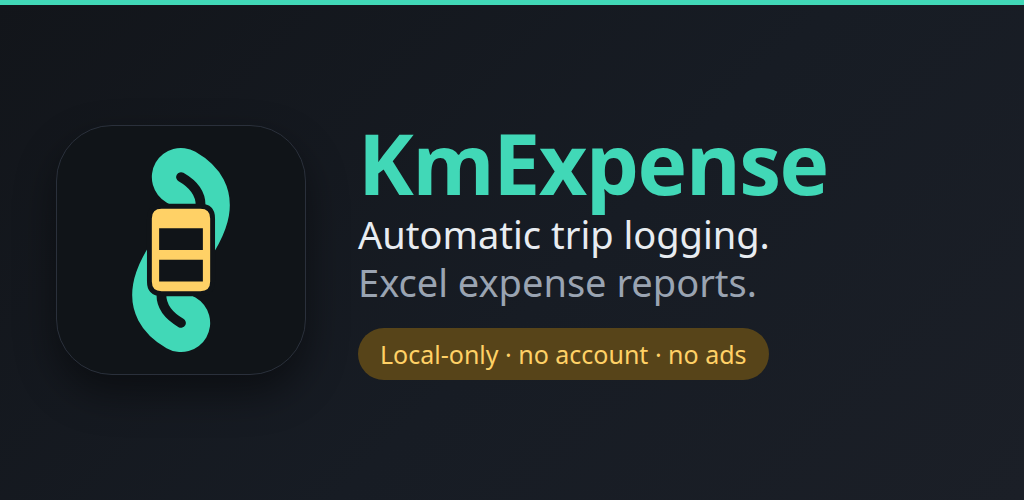
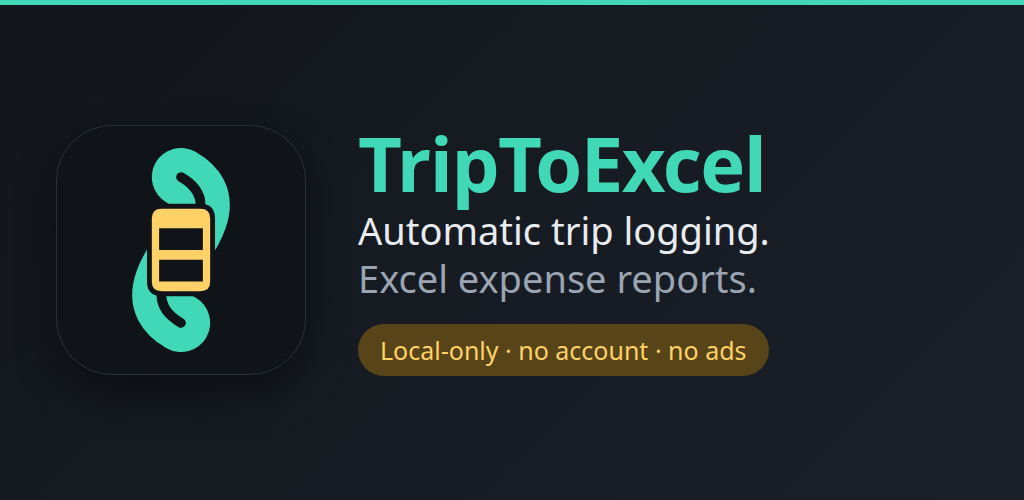
chore: rename KmExpense to TripToExcel across app, docs, store

Changed region(s): [[0.3438, 0.27, 0.8125, 0.6], [0.3438, 0.69, 0.75, 0.78], [0.3438, 0.63, 0.75, 0.69]]

diff --git a/store/feature-graphic.html b/store/feature-graphic.html
@@ -2,7 +2,7 @@
 <html lang="en">
 <head>
 <meta charset="utf-8">
-<title>KmExpense — Play feature graphic 1024×500</title>
+<title>TripToExcel — Play feature graphic 1024×500</title>
 <style>
   /* Google Play feature graphic: 1024x500, no transparency, no rounded outer
      corners. Palette is the app's (mint #41D8B7, amber #FFD166, dark neutrals).
@@ -35,7 +35,7 @@
 
   .text { display: flex; flex-direction: column; gap: 6px; }
   .name {
-    font-size: 84px; font-weight: 700; color: #41D8B7;
+    font-size: 76px; font-weight: 700; color: #41D8B7;
     letter-spacing: -1.5px; line-height: 1.02;
   }
   .tagline { font-size: 38px; line-height: 1.25; color: #E8ECF1; }
@@ -70,7 +70,7 @@
   </div>
 
   <div class="text">
-    <div class="name">KmExpense</div>
+    <div class="name">TripToExcel</div>
     <div class="tagline">Automatic trip logging.<br><span class="dim">Excel expense reports.</span></div>
     <div class="pill">Local-only · no account · no ads</div>
   </div>

diff --git a/store/icon.html b/store/icon.html
@@ -2,7 +2,7 @@
 <html lang="en">
 <head>
 <meta charset="utf-8">
-<title>KmExpense — Play store icon 512×512</title>
+<title>TripToExcel — Play store icon 512×512</title>
 <style>
   /* Wrapper that renders store/icon.svg at exactly 512x512.
      Why a wrapper at all: Chrome writes an RGB PNG when every pixel is opaque,

diff --git a/docs/assets/css/style.css b/docs/assets/css/style.css
@@ -1,4 +1,4 @@
-/* KmExpense documentation site.
+/* TripToExcel documentation site.
  *
  * Dark theme only, with the same palette as the Android app
  * (app/src/main/java/com/terman37/triplogger/ui/theme/Theme.kt):

diff --git a/docs/privacy-policy.md b/docs/privacy-policy.md
@@ -1,20 +1,21 @@
-# KmExpense — Privacy Policy
+# TripToExcel — Privacy Policy
 
 *Last updated: 2 October 2026*
 
-> **KmExpense is a local-only app.** It does not collect, transmit, or sell your
+> **TripToExcel is a local-only app.** It does not collect, transmit, or sell your
 > personal data. There is no account, no server, and no analytics. Your trips stay
 > on your phone unless you choose to share an export yourself.
 
 ## 1. Who this policy is for
 
-This policy covers the Android app **KmExpense**
-(package `com.terman37.triplogger`), developed by **Anthony Jourdan**. It explains
+This policy covers the Android app **TripToExcel**, listed on Google Play as
+*TripToExcel - Km Logger* (package `com.terman37.triplogger`), developed by
+**Anthony Jourdan**. It explains
 what the app uses on your device, where that data goes, and how you can remove it.
 
 ## 2. What the app uses on your device
 
-KmExpense accesses the following data *on your device only*:
+TripToExcel accesses the following data *on your device only*:
 
 - **Bluetooth connection status** of the car device you register in the app. This
   is used solely to know when a trip starts and when it ends. The app does not
@@ -28,7 +29,7 @@ KmExpense accesses the following data *on your device only*:
 
 ## 3. No collection, no transmission
 
-KmExpense does not send your data anywhere. It has no backend server, no user
+TripToExcel does not send your data anywhere. It has no backend server, no user
 account, no advertising SDK, and no analytics or crash-reporting service.
 
 The only way trip data leaves your phone is when **you** explicitly export a
@@ -58,9 +59,9 @@ server; deletion is entirely local and immediate.
 
 - **Android's built-in geocoder** is used to turn coordinates into an address.
   This is a system service; its handling of data is governed by your device's
-  platform and Google's terms, not by KmExpense.
+  platform and Google's terms, not by TripToExcel.
 - **Google Maps** opens only when you tap a map link. The app simply hands a URL
-  to the Maps app or browser; no trip data is sent by KmExpense.
+  to the Maps app or browser; no trip data is sent by TripToExcel.
 
 No other third party receives data from the app.
 
@@ -79,7 +80,7 @@ visible, and dismissing that notification stops monitoring.
 
 ## 8. Children
 
-KmExpense is not directed at children and does not knowingly collect any
+TripToExcel is not directed at children and does not knowingly collect any
 information from children.
 
 ## 9. Changes to this policy
@@ -95,6 +96,6 @@ Questions about this policy or about the app's data handling:
 
 ---
 
-KmExpense — privacy policy. This page is a static file: it sets no cookies and
+TripToExcel — privacy policy. This page is a static file: it sets no cookies and
 runs no scripts. Source code:
 [github.com/terman37/TripLogger](https://github.com/terman37/TripLogger).

diff --git a/docs/user-guide.md b/docs/user-guide.md
@@ -1,4 +1,4 @@
-# KmExpense — user guide
+# TripToExcel — user guide
 
 An Android app that **logs your car trips automatically** and lets you export
 them as a spreadsheet for your expense report.
@@ -24,7 +24,7 @@ Requirement: Android 14 or newer.
 1. **Pair your car in Android settings** (the app never does the pairing
    itself): Settings → Bluetooth → pair your car/head unit or your usual car
    adapter.
-2. Open **KmExpense**. On a fresh install, just tap the **Monitor trips**
+2. Open **TripToExcel**. On a fresh install, just tap the **Monitor trips**
    switch: there is no device yet, so the app takes you to the **Settings** tab
    with the *Available* list already open.
 3. Tap **Allow Bluetooth access** (the amber button), then tap **+** next to
@@ -97,7 +97,7 @@ address.
 
 ## Good to know
 
-- **The notification is monitoring.** If you swipe the "KmExpense"
+- **The notification is monitoring.** If you swipe the "TripToExcel"
   notification away, the app stops monitoring (that is intentional: it never
   tracks silently). Turn the switch on Home back on if that was a mistake.
 - **Closing the app is fine.** Monitoring continues in the background while the
@@ -115,7 +115,7 @@ address.
   again.
 - **Battery**: the app asks for GPS only while a trip is recording (one fix
   every 30 seconds), so it is light on battery. Some phone brands additionally
-  restrict background apps; if recording stops unexpectedly, allow KmExpense
+  restrict background apps; if recording stops unexpectedly, allow TripToExcel
   to run in the background / disable battery optimization for it.
 - **Permissions**: Bluetooth is used only to notice your car connecting;
   location is used for distance and addresses, and "Allow all the time" so

diff --git a/docs/BUILD.md b/docs/BUILD.md
@@ -1,4 +1,4 @@
-# Building KmExpense
+# Building TripToExcel
 
 How to produce an installable APK or the signed bundle for Google Play.
 
@@ -119,5 +119,5 @@ Increase `versionCode` for every release you upload; Play rejects a bundle whose
 | `No connected devices!` | `adb devices` empty → reconnect USB / `adb connect <IP:PORT>` |
 | `INSTALL_FAILED_UPDATE_INCOMPATIBLE` | Different signing key or downgrade: uninstall the app first (this deletes its database) |
 | `INSTALL_FAILED_VERSION_DOWNGRADE` | Increase `versionCode` or uninstall |
-| Foreground service stops when battery saver is strict | Exempt KmExpense from battery optimization in Android settings (monitoring is a foreground service; some OEMs still restrict) |
+| Foreground service stops when battery saver is strict | Exempt TripToExcel from battery optimization in Android settings (monitoring is a foreground service; some OEMs still restrict) |
 | Monitoring stops after driving | Check the notification is still there; if it was swiped away, monitoring is off by design (turn the Home switch back on) |

diff --git a/docs/UI.md b/docs/UI.md
@@ -1,4 +1,4 @@
-# KmExpense — UI specification
+# TripToExcel — UI specification
 
 Current description of how the app looks and behaves. Reflects the validated
 implementation (the validated implementation); keep in sync with the code.
@@ -94,7 +94,7 @@ expanded so the permission button is immediately visible.
 
 ## Background notification
 
-- Title "KmExpense"; content always leads with **"Monitoring active"**:
+- Title "TripToExcel"; content always leads with **"Monitoring active"**:
   - idle → "Monitoring active"
   - recording → "Monitoring active — Recording 12.4 km"
   - grace → "Monitoring active — Disconnected, finishing trip…"

diff --git a/store/README.md b/store/README.md
@@ -37,7 +37,7 @@ neither is drawn here.
 `feature-graphic.html` is the source: mint hairline, the icon on the left, the
 wordmark, a two-line tagline and an amber "Local-only · no account · no ads"
 pill. Text stays inside a 56px margin because Play crops this banner in some
-placements. The store title is `KmExpense: Auto Drive Log` (see the release
+placements. The store title is `TripToExcel - Km Logger` (see the release
 plan); the graphic uses the shorter wordmark, which is also the launcher label.
 
 ### Screenshots

diff --git a/README.md b/README.md
@@ -1,4 +1,4 @@
-# KmExpense
+# TripToExcel
 
 An Android app that **logs your car trips automatically** and lets you export
 them as a spreadsheet for your expense report.
@@ -34,7 +34,7 @@ GitHub Pages (source: `docs/`, Markdown rendered with Jekyll).
 
 ## License
 
-KmExpense is free software, released under the **GNU General Public License,
+TripToExcel is free software, released under the **GNU General Public License,
 version 3 or later** (`GPL-3.0-or-later`).
 
 Copyright (C) 2026 Anthony Jourdan.

diff --git a/AGENTS.md b/AGENTS.md
@@ -1,4 +1,4 @@
-# AGENTS.md — KmExpense (Android)
+# AGENTS.md — TripToExcel (Android)
 
 Guidelines for AI agents and contributors working in this repository. Applies in
 addition to the global agent rules (`~/.pi/agent/AGENTS.md`).

diff --git a/docs/index.md b/docs/index.md
@@ -1,4 +1,4 @@
-# KmExpense — documentation
+# TripToExcel — documentation
 
 Android app that **logs car trips automatically** when the car's Bluetooth
 connects, and lets you **export them as an Excel spreadsheet** for your expense

diff --git a/docs/DETAILS.md b/docs/DETAILS.md
@@ -1,4 +1,4 @@
-# KmExpense — technical details
+# TripToExcel — technical details
 
 Technical documentation for developers and the curious. User guide:
 [user-guide.md](user-guide.md) · Interface spec: [UI.md](UI.md)
